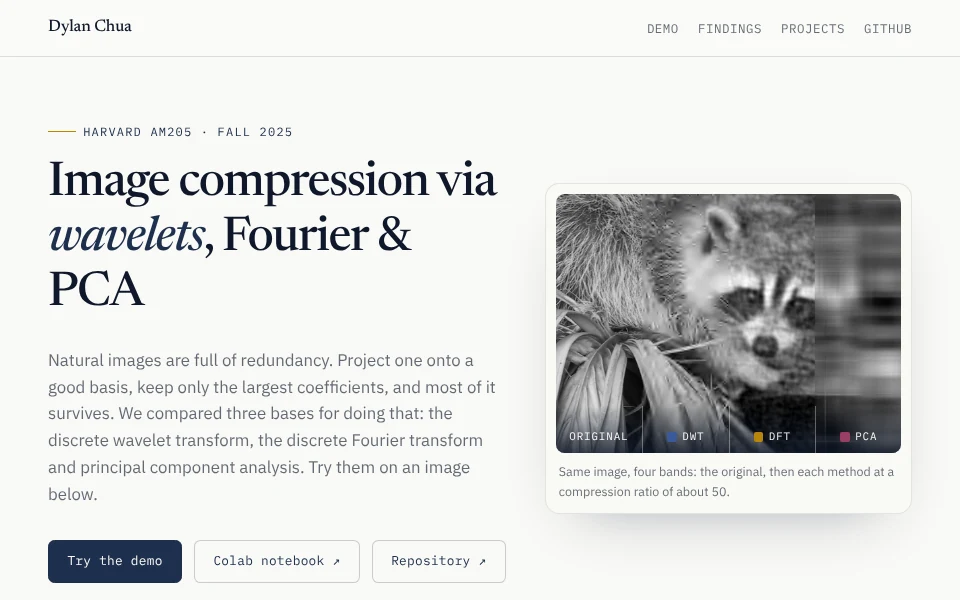
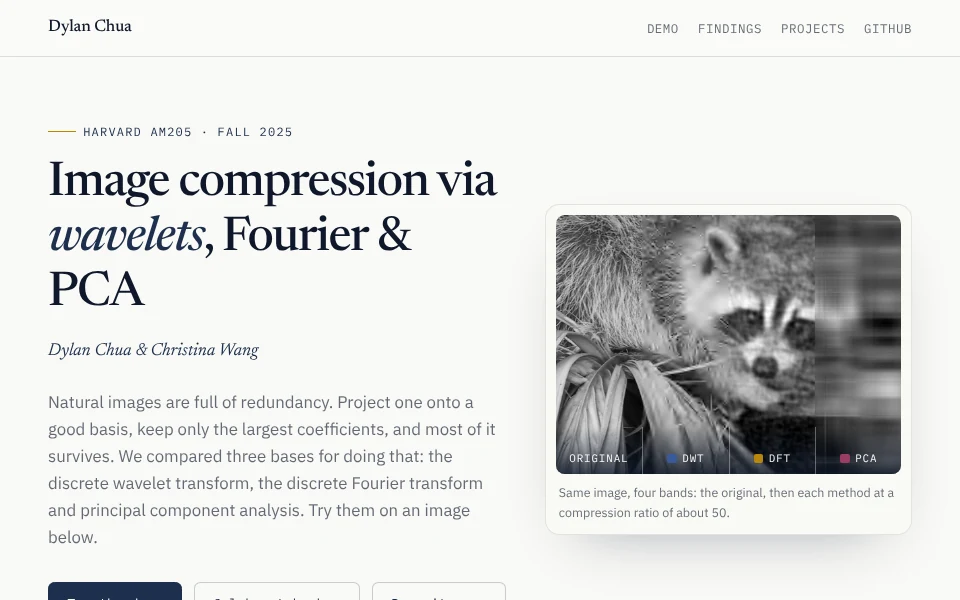
Put authors in a hero byline and keep stats on one line
Claude-Session: https://claude.ai/code/session_0177LZe84wQykWVYqXNzNbBy

diff --git a/web/src/style.css b/web/src/style.css
@@ -388,10 +388,21 @@ main {
 
 .stats {
   display: grid;
-  grid-template-columns: repeat(auto-fit, minmax(150px, 1fr));
+  grid-template-columns: repeat(3, minmax(0, 1fr));
   gap: 1.5rem;
   margin: clamp(2.5rem, 7vh, 4.5rem) 0 0;
-  max-width: 48rem;
+}
+
+.stat dd {
+  white-space: nowrap;
+}
+
+.byline {
+  margin-top: 0.9rem;
+  font-family: var(--font-serif);
+  font-style: italic;
+  font-size: clamp(1.1rem, 1.6vw, 1.3rem);
+  color: var(--color-navy);
 }
 
 .stat {
@@ -415,11 +426,6 @@ main {
   color: var(--color-navy);
 }
 
-.stat dd.stat-small {
-  font-size: 1.15rem;
-  line-height: 1.3;
-  padding-top: 0.2rem;
-}
 
 .section-head {
   border-bottom: 1px solid var(--color-hairline);
@@ -1384,6 +1390,10 @@ td.muted {
   }
   .metric dd {
     font-size: 1.25rem;
+  }
+  .stats {
+    grid-template-columns: minmax(0, 1fr);
+    gap: 1rem;
   }
   .stat dd {
     font-size: 1.25rem;

diff --git a/web/index.html b/web/index.html
@@ -55,6 +55,7 @@
         <div class="hero-text">
         <p class="eyebrow">Harvard AM205 · Fall 2025</p>
         <h1 class="heading-xl">Image compression via <em>wavelets</em>, Fourier &amp; PCA</h1>
+        <p class="byline">Dylan Chua &amp; Christina Wang</p>
         <p class="lede">
           Natural images are full of redundancy. Project one onto a good basis, keep only the largest coefficients, and
           most of it survives. We compared three bases for doing that: the discrete wavelet transform, the discrete
@@ -104,10 +105,6 @@
           <div class="stat">
             <dt>Test images</dt>
             <dd>50 + 24</dd>
-          </div>
-          <div class="stat">
-            <dt>Authors</dt>
-            <dd class="stat-small">Dylan Chua, Christina Wang</dd>
           </div>
         </dl>
       </section>
